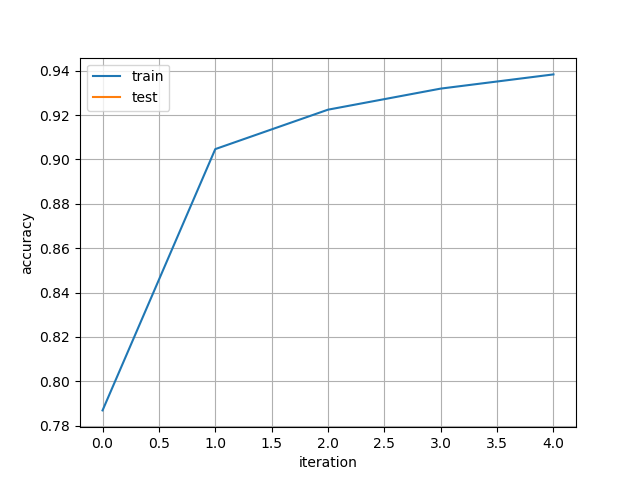
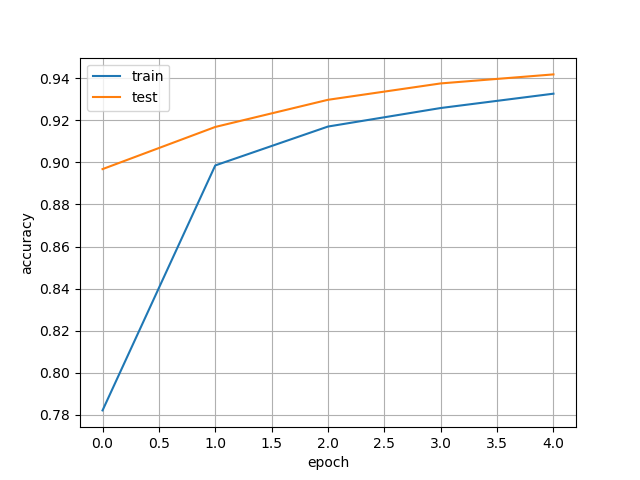
Updating examples

diff --git a/examples/conv_mnist_classification_full.py b/examples/conv_mnist_classification_full.py
@@ -84,10 +84,11 @@ if __name__ == '__main__':
         test_batches = create_minibatches(X_test, y_test, BATCH_SIZE)
         test_loss = list()
         test_accuracy = list()
-        for batch_x, batch_y in tqdm(test_batches):
-            predictions = model(batch_x)
-            loss, accuracy = model.loss(batch_x, batch_y)
+        for (batch_x, batch_y) in tqdm(test_batches):
+            predictions = model.predict(batch_x)
+            loss, accuracy = model.loss(predictions, batch_y)
             test_loss.append(loss)
+            test_accuracy.append(accuracy)
 
         template = 'Epoch {}, Loss: {}, Accuracy: {}, Test Loss: {}, Test Accuracy: {}'
         print(template.format(epoch + 1,

diff --git a/examples/README.md b/examples/README.md
@@ -35,6 +35,12 @@ Results:
 | --- |
 | ![Loss](results/conv_mnist_classification_full_vis_pred.png) |
 
+| Epoch 1 | Train Loss: 0.9847 | Train Accuracy: 78.201% | Test Loss: 0.4840 | Test Accuracy: 89.682% | 
+| Epoch 2 | Train Loss: 0.4109 | Train Accuracy: 89.858% | Test Loss: 0.3311 | Test Accuracy: 91.688% | 
+| Epoch 3 | Train Loss: 0.3113 | Train Accuracy: 91.708% | Test Loss: 0.2711 | Test Accuracy: 92.980% | 
+| Epoch 4 | Train Loss: 0.2669 | Train Accuracy: 92.589% | Test Loss: 0.2323 | Test Accuracy: 93.760% | 
+| Epoch 5 | Train Loss: 0.2388 | Train Accuracy: 93.271% | Test Loss: 0.2119 | Test Accuracy: 94.189% | 
+
 ### Small training (simple)
 The simpler version of the script, enables training on a specified number of iterations on the shuffled dataset with minibatches. 
 Even if it is of course not as fast as the real frameworks, you can see results earlier than in the full version.

diff --git a/README.md b/README.md
@@ -1,17 +1,19 @@
 # Neural Network Basics
 This repo contains a basic implementation of a neural network for own learning purposes implemented completely in numpy. This means, that the implementation is not as efficient as other libraries of course, but should implement some important papers in an intuitive and easy to read way.
 
-Basic usages can be found in the example folder.
+Basic usages can be found in the ['examples' folder](examples/).
 
 ## Done
 - Fully Connected Layer
 - Initializations, Activations, Loss-functions
 - SGD
+- Convolutional Layers (2D)
+- Max-Pooling (2D)
 
 ## WIP
-- AdaGrad, RMSProp, Adam
-- Convolutional Layers
-- Batch-Norm
+- AdaGrad, RMSProp, Adam, Lazy-Adam
+- Average-Pooling
+- Batch-Norm, Layer-Norm
 - Dropout
 
 ## Future
